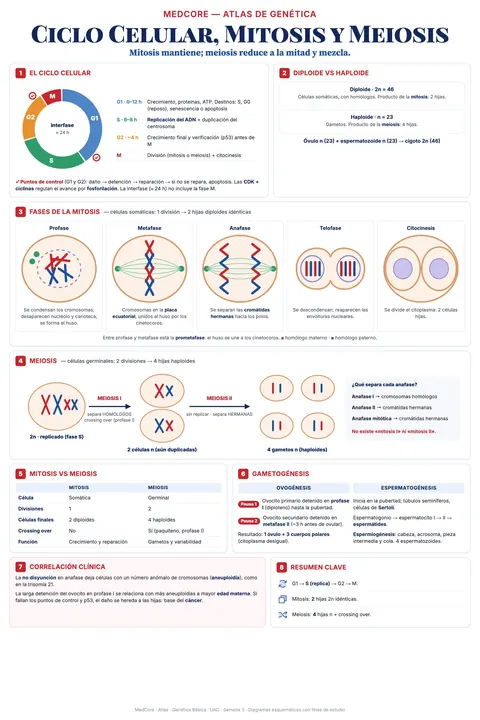
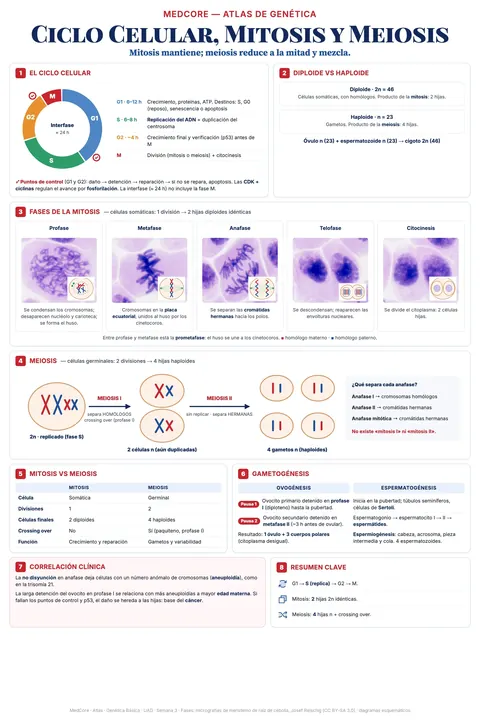
feat(atlas): imágenes reales en 4 láminas de Genética
Fases de la mitosis con micrografías de meristemo de cebolla (esquema como
recuadro), cariograma 46,XY real con bandeo G (NHGRI), cariotipo de
trisomía 21 en citogenética clínica, y cigoto, embrión de 8 células y
blastocisto reales de FIV en desarrollo embrionario. Créditos al pie y en
fotos/CREDITOS.md.

Changed region(s): [[0.0312, 0.3056, 0.9688, 0.4278], [0.1562, 0.9778, 0.3125, 1.0], [0.75, 0.9778, 0.8438, 1.0]]

diff --git a/docs/atlas-posters/membrana/fotos/compuestas/comp.py b/docs/atlas-posters/membrana/fotos/compuestas/comp.py
@@ -12,8 +12,13 @@ for it in spec['items']:
     x0, y0, x1, y1 = it['box']; W, H = x1 - x0, y1 - y0
     ph = Image.open(os.path.join(os.path.dirname(sys.argv[1]), 'sel') + '/' + it['img'] + '.jpg').convert('RGB')
     if 'crop' in it: ph = ph.crop(tuple(int(v * s) for v, s in zip(it['crop'], (ph.width, ph.height, ph.width, ph.height))))
-    z = it.get('z', 1.0); k = max(W / ph.width, H / ph.height) * z
-    ph = ph.resize((max(W, round(ph.width * k)), max(H, round(ph.height * k))), Image.LANCZOS)
+    if it.get('fit') == 'contain':
+        k = min(W / ph.width, H / ph.height); ph = ph.resize((round(ph.width * k), round(ph.height * k)), Image.LANCZOS)
+        bg = Image.new('RGB', (W, H), 'white'); bg.paste(ph, ((W - ph.width) // 2, (H - ph.height) // 2)); ph = bg; it.setdefault('inset', False)
+        k = 1; z = 1
+    else:
+        z = it.get('z', 1.0); k = max(W / ph.width, H / ph.height) * z
+    if k != 1: ph = ph.resize((max(W, round(ph.width * k)), max(H, round(ph.height * k))), Image.LANCZOS)
     fx, fy = it.get('f', [0.5, 0.5]); cx, cy = fx * ph.width, fy * ph.height
     l = int(min(max(cx - W / 2, 0), ph.width - W)); t = int(min(max(cy - H / 2, 0), ph.height - H))
     ph = ph.crop((l, t, l + W, t + H))
@@ -50,6 +55,10 @@ for c in spec.get('cells', []):
         if L.get('s'): d.text((lx - d.textlength(L['s'], font=fr) if right else lx, ly + 2), L['s'], font=fr, fill=(29, 36, 51))
         x0 = lx + 6 if right else lx - 6
         d.line([(x0, ly - 6), (px, py)], fill=(34, 34, 34), width=2); d.ellipse((px - 4, py - 4, px + 4, py + 4), fill=(34, 34, 34))
+for t in spec.get('texts', []):
+    x0, y0, x1, y1 = t['box']; d = ImageDraw.Draw(P); d.rectangle((x0, y0, x1, y1), fill=tuple(t.get('bg', [255, 255, 255])))
+    FT = '/Users/misaelgranillo/Library/Fonts/Inter-VariableFont_opsz,wght.ttf'; fo = ImageFont.truetype(FT, t.get('size', 22)); fo.set_variation_by_name(t.get('weight', 'Regular'))
+    d.text((x0, y0 + (y1 - y0 - t.get('size', 22)) / 2 - 2), t['text'], font=fo, fill=tuple(t.get('color', [75, 85, 103])))
 f = spec.get('foot')
 if f:
     x0, y0, x1, y1 = f['box']; ImageDraw.Draw(P).rectangle((x0, y0, x1, y1), fill='white')

diff --git a/docs/atlas-posters/membrana/fotos/CREDITOS.md b/docs/atlas-posters/membrana/fotos/CREDITOS.md
@@ -36,3 +36,14 @@
 | san-mono | [Blood-monocyte2.jpg](https://commons.wikimedia.org/wiki/File:Blood-monocyte2.jpg) | Echinaceapallida | CC BY-SA 4.0 |
 | san-neutro | [Blood-neutrophil1.jpg](https://commons.wikimedia.org/wiki/File:Blood-neutrophil1.jpg) | Echinaceapallida | CC BY-SA 4.0 |
 | tendon | [Tendon - very high mag.jpg](https://commons.wikimedia.org/wiki/File:Tendon_-_very_high_mag.jpg) | Nephron | CC BY-SA 3.0 |
+
+## Imágenes de Genética (Wikimedia Commons)
+
+| Archivo | Fuente | Autor | Licencia |
+|---|---|---|---|
+| mit6 | [Mitosis (261 13) Pressed; root meristem of onion (cells in prophase, metaphase, anaphase, telophase).jpg](https://commons.wikimedia.org/wiki/File:Mitosis_(261_13)_Pressed;_root_meristem_of_onion_(cells_in_prophase,_metaphase,_anaphase,_telophase).jpg) | Doc. RNDr. Josef Reischig, CSc. | CC BY-SA 3.0 |
+| t21 | [21 trisomy - Down syndrome.png](https://commons.wikimedia.org/wiki/File:21_trisomy_-_Down_syndrome.png) | U.S. Department of Energy Human Genome Program. | Public domain |
+| zigoto | [Zygote1.jpg](https://commons.wikimedia.org/wiki/File:Zygote1.jpg) | Niña Sesina | CC BY-SA 4.0 |
+| ocho | [Embryo, 8 cells.jpg](https://commons.wikimedia.org/wiki/File:Embryo,_8_cells.jpg) | ekem, Courtesy: RWJMS IVF Program | Public domain |
+| blasto2 | [Human blastocyst.jpg](https://commons.wikimedia.org/wiki/File:Human_blastocyst.jpg) | Mr. J. Conaghan | Public domain |
+| kario | [Human male karyotpe high resolution.jpg](https://commons.wikimedia.org/wiki/File:Human_male_karyotpe_high_resolution.jpg) | Courtesy: National Human Genome Research Institute | Public domain |
